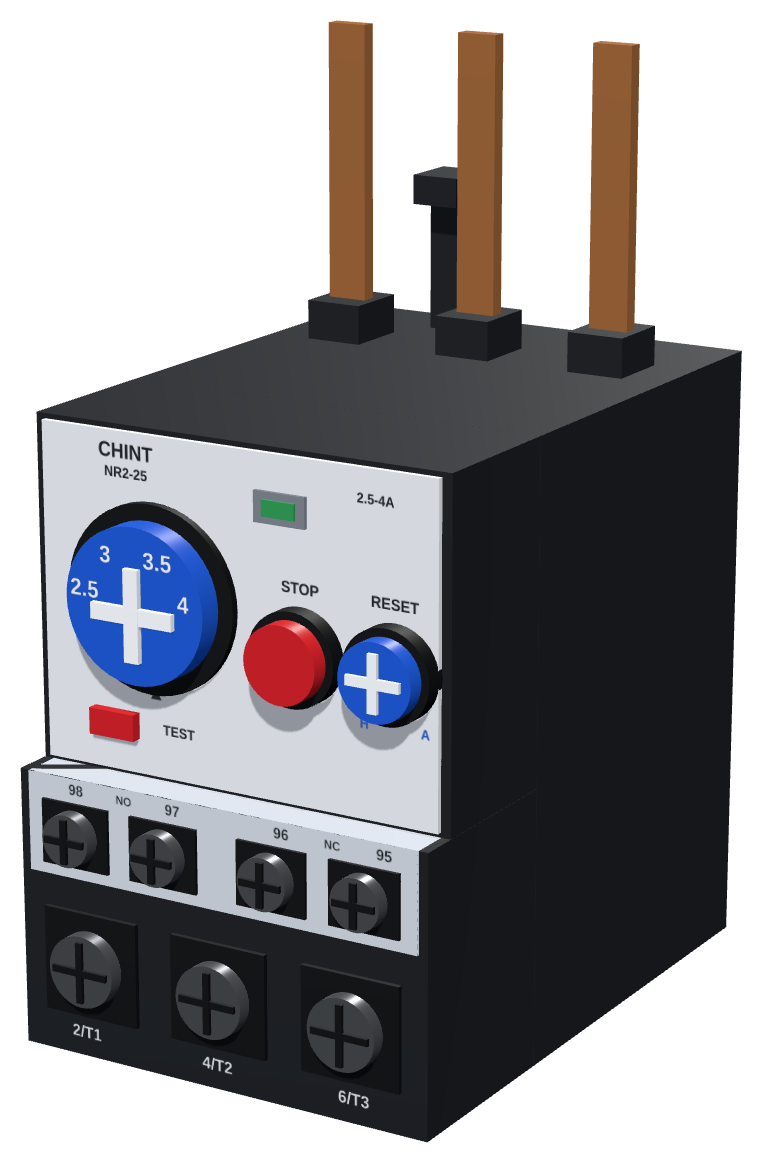
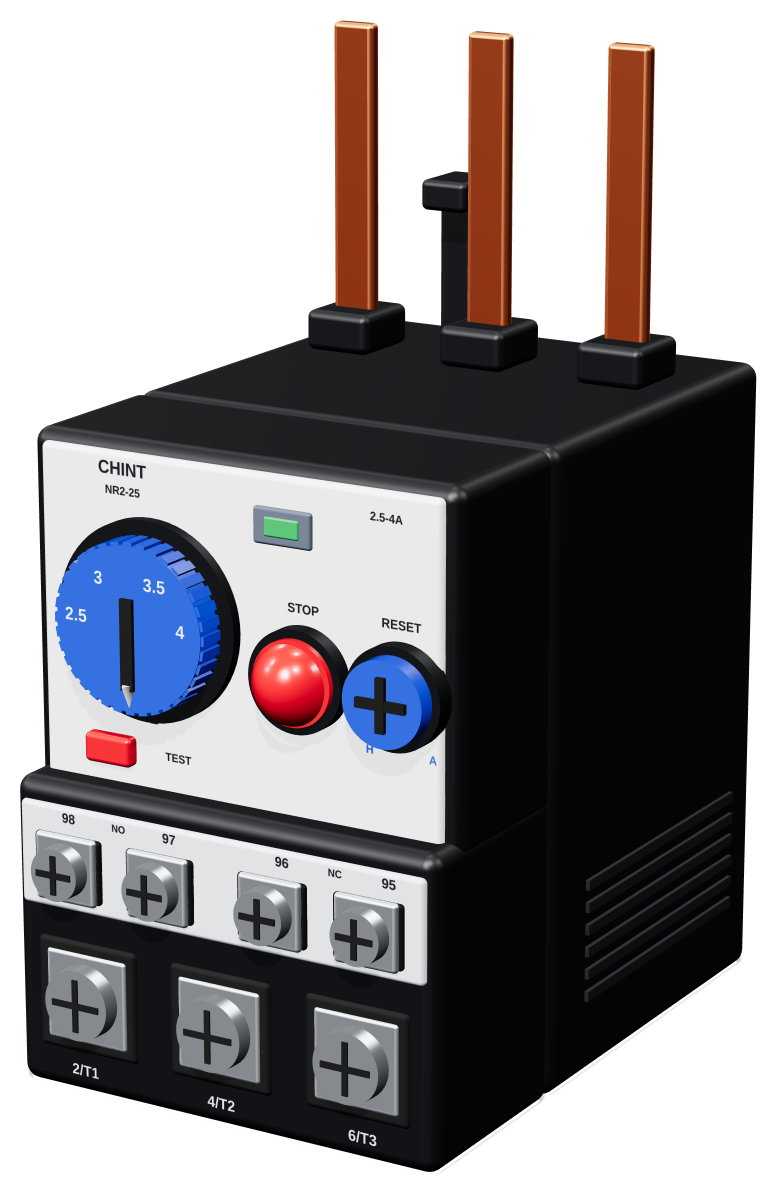
NR2-25 3D realista (PBR, entorno, bordes redondeados)
Claude-Session: https://claude.ai/code/session_01PXbN6AjaUdwQ9uVhc3uYbs

diff --git a/manim/posts3d/modelo.html b/manim/posts3d/modelo.html
@@ -1,89 +1,101 @@
 <!doctype html>
 <html><head><meta charset="utf-8">
 <style>html,body{margin:0;background:transparent}canvas{display:block}</style>
-<script type="importmap">{"imports":{"three":"./node_modules/three/build/three.module.js"}}</script>
+<script type="importmap">{"imports":{"three":"./node_modules/three/build/three.module.js","three/addons/":"./node_modules/three/examples/jsm/"}}</script>
 </head><body>
 <script type="module">
 import * as THREE from 'three';
-// Modelo aproximado del relé térmico CHINT NR2-25 (2,5–4 A). Unidades: mm. x derecha, y arriba, z hacia el frente.
+import {RoundedBoxGeometry} from 'three/addons/geometries/RoundedBoxGeometry.js';
+import {RoomEnvironment} from 'three/addons/environments/RoomEnvironment.js';
+// Relé térmico CHINT NR2-25 (2,5–4 A), versión realista: PBR + entorno + bordes redondeados. Unidades mm.
 const P = new URLSearchParams(location.search);
 const VIEW = P.get('v') || 'iso', W = +(P.get('w') || 1400), H = +(P.get('h') || 1400);
 const r = new THREE.WebGLRenderer({antialias: true, alpha: true, preserveDrawingBuffer: true});
-r.setPixelRatio(1); r.setSize(W, H); r.outputColorSpace = THREE.SRGBColorSpace;
+r.setPixelRatio(2); r.setSize(W, H); r.outputColorSpace = THREE.SRGBColorSpace;
+r.toneMapping = THREE.ACESFilmicToneMapping; r.toneMappingExposure = 1.05;
 r.shadowMap.enabled = true; r.shadowMap.type = THREE.PCFSoftShadowMap;
 document.body.appendChild(r.domElement);
 const sc = new THREE.Scene();
-const cam = new THREE.PerspectiveCamera(22, W / H, 1, 2000);
-const V = {iso: [175, 140, 280], izq: [-270, 150, -110], frente: [0, 46, 330]}[VIEW];
-cam.position.set(...V); cam.lookAt(0, 46, -10);
-sc.add(new THREE.HemisphereLight(0xffffff, 0x8899aa, 1.3));
-const sun = new THREE.DirectionalLight(0xffffff, 2.2); sun.position.set(80, 160, 140); sun.castShadow = true;
-sun.shadow.mapSize.set(4096, 4096); sun.shadow.bias = -0.0004; sun.shadow.normalBias = 0.4; Object.assign(sun.shadow.camera, {left: -120, right: 120, top: 120, bottom: -120}); sc.add(sun);
-const fill = new THREE.DirectionalLight(0xdde8ff, 0.9); fill.position.set(-120, 60, 40); sc.add(fill);
-const rim = new THREE.DirectionalLight(0xffffff, 0.7); rim.position.set(-40, 80, -160); sc.add(rim);
+const pm = new THREE.PMREMGenerator(r); sc.environment = pm.fromScene(new RoomEnvironment(), .04).texture;
+const cam = new THREE.PerspectiveCamera(20, W / H, 1, 3000);
+cam.position.set(...{iso: [185, 145, 300], izq: [-290, 150, -120], frente: [0, 46, 360]}[VIEW]); cam.lookAt(0, 46, -10);
+const key = new THREE.DirectionalLight(0xffffff, 2.0); key.position.set(90, 190, 160); key.castShadow = true;
+key.shadow.mapSize.set(4096, 4096); key.shadow.bias = -0.0003; key.shadow.normalBias = .3; key.shadow.radius = 6;
+Object.assign(key.shadow.camera, {left: -110, right: 110, top: 130, bottom: -60}); sc.add(key);
+const fill = new THREE.DirectionalLight(0xe8efff, .6); fill.position.set(-150, 70, 80); sc.add(fill);
+sc.add(new THREE.AmbientLight(0xffffff, .15));
 
-const M = (c, o = {}) => new THREE.MeshStandardMaterial(Object.assign({color: c, roughness: .55, metalness: 0}, o));
-const negro = M(0x1d1f23, {roughness: .5}), blanco = M(0xf1f2f4, {roughness: .45}), gris = M(0xd6dbe2, {roughness: .5});
-const cobre = M(0xe39253, {metalness: .55, roughness: .32}), metal = M(0xc8ccd2, {metalness: .9, roughness: .25});
-const azul = M(0x1f5bd6, {roughness: .35}), rojo = M(0xd8232a, {roughness: .35}), oscuro = M(0x0d0e10);
-function box(w, h, d, m, x, y, z) {const g = new THREE.Mesh(new THREE.BoxGeometry(w, h, d), m); g.position.set(x, y, z); g.castShadow = g.receiveShadow = true; sc.add(g); return g}
-function cyl(r1, h, m, x, y, z, rx = Math.PI / 2, seg = 48) {const g = new THREE.Mesh(new THREE.CylinderGeometry(r1, r1, h, seg), m); g.rotation.x = rx; g.position.set(x, y, z); g.castShadow = g.receiveShadow = true; sc.add(g); return g}
-function texto(lines, w, h, x, y, z, ry = 0, color = '#1b1f24', size = 64, bg = null) {
-  const c = document.createElement('canvas'); c.width = w * 20; c.height = h * 20; const k = c.getContext('2d');
+const phys = (c, o = {}) => new THREE.MeshPhysicalMaterial(Object.assign({color: c, roughness: .5, metalness: 0}, o));
+const negro = phys(0x17181b, {roughness: .42, clearcoat: .25, clearcoatRoughness: .5});
+const negroMate = phys(0x1b1c20, {roughness: .7});
+const blanco = phys(0xeef0f2, {roughness: .38, clearcoat: .2});
+const gris = phys(0xcfd4da, {roughness: .45});
+const cobre = phys(0xeaa06c, {metalness: 1, roughness: .33, envMapIntensity: 1.6});
+const niquel = phys(0xe3e6ea, {metalness: 1, roughness: .3, envMapIntensity: 1.8});
+const azul = phys(0x1f56d1, {roughness: .3, clearcoat: .5});
+const rojo = phys(0xd3202a, {roughness: .28, clearcoat: .6});
+const hueco = phys(0x050506, {roughness: .9});
+function add(geo, m, x, y, z, rx = 0, ry = 0, rz = 0) {const g = new THREE.Mesh(geo, m); g.position.set(x, y, z); g.rotation.set(rx, ry, rz); g.castShadow = g.receiveShadow = true; sc.add(g); return g}
+const rbox = (w, h, d, m, x, y, z, rad = 1.2) => add(new RoundedBoxGeometry(w, h, d, 4, rad), m, x, y, z);
+const cyl = (ra, h, m, x, y, z, seg = 64, rb = ra) => add(new THREE.CylinderGeometry(ra, rb, h, seg), m, x, y, z, Math.PI / 2);
+function texto(lines, w, h, x, y, z, ry = 0, color = '#1b1f24', bg = null) {
+  const s = 40, c = document.createElement('canvas'); c.width = w * s; c.height = h * s; const k = c.getContext('2d');
   if (bg) {k.fillStyle = bg; k.fillRect(0, 0, c.width, c.height)}
   k.fillStyle = color; k.textAlign = 'center'; k.textBaseline = 'middle';
-  lines.forEach(([t, px, py, s, wgt]) => {k.font = `${wgt || 700} ${s || size}px Arial`; k.fillText(t, px * 20, py * 20)});
-  const t = new THREE.CanvasTexture(c); t.colorSpace = THREE.SRGBColorSpace; t.anisotropy = 8;
-  const m = new THREE.Mesh(new THREE.PlaneGeometry(w, h), new THREE.MeshStandardMaterial({map: t, transparent: !bg, roughness: .6}));
-  m.position.set(x, y, z); m.rotation.y = ry; sc.add(m); return m;
+  lines.forEach(([t, px, py, sz, wgt, col]) => {k.fillStyle = col || color; k.font = `${wgt || 700} ${sz * s / 20}px Arial`; k.fillText(t, px * s, py * s)});
+  const t = new THREE.CanvasTexture(c); t.colorSpace = THREE.SRGBColorSpace; t.anisotropy = 16;
+  const m = new THREE.Mesh(new THREE.PlaneGeometry(w, h), new THREE.MeshPhysicalMaterial({map: t, transparent: !bg, roughness: .5, polygonOffset: true, polygonOffsetFactor: -2}));
+  m.position.set(x, y, z); m.rotation.y = ry; m.receiveShadow = true; sc.add(m); return m;
 }
-function tornillo(x, y, z, r0 = 3.2) {
-  cyl(r0, 1.6, metal, x, y, z + .8);
-  box(r0 * 1.7, .7, .6, oscuro, x, y, z + 1.65); box(.7, r0 * 1.7, .6, oscuro, x, y, z + 1.65);
+function tornillo(x, y, z, rr = 3.4) {          // tornillo de cabeza combinada (Pozidriv) con arandela-placa de apriete
+  rbox(rr * 2.6, rr * 2.6, .8, niquel, x, y, z + .4, .4);
+  const cab = add(new THREE.CylinderGeometry(rr, rr * 1.02, 1.8, 48), niquel, x, y, z + 1.6, Math.PI / 2);
+  add(new THREE.BoxGeometry(rr * 1.5, .6, .4), hueco, x, y, z + 2.45); add(new THREE.BoxGeometry(.6, rr * 1.5, .4), hueco, x, y, z + 2.45);
 }
-// cuerpo
-box(45, 62, 42, negro, 0, 31, -21);          // bloque trasero (va bajo el contactor)
-box(45, 28, 20, negro, 0, 14, 10);           // bloque frontal inferior (bornes)
-box(45, 34, 16, negro, 0, 45, 8);            // bloque frontal superior
-box(43, 33, .6, blanco, 0, 45, 16.3);        // placa frontal blanca
-// bornes de salida 2/T1 4/T2 6/T3
-for (const x of [-14.5, 0, 14.5]) {box(10.5, 10.5, .6, oscuro, x, 9.5, 20.2); tornillo(x, 9.5, 20.5, 3.6)}
-texto([['2/T1', 7.5, 1.6, 34], ['4/T2', 22.5, 1.6, 34], ['6/T3', 37.5, 1.6, 34]], 45, 3.2, 0, 2.6, 20.6, 0, '#e8eaee');
-// regleta de auxiliares 98 97 | 96 95
-box(43, 10, 4, gris, 0, 23, 18);
-const xa = [-16, -6, 6, 16];
-for (const x of xa) {box(7.5, 6.4, .6, oscuro, x, 22.4, 20.2); tornillo(x, 22.4, 20.5, 2.6)}
-texto([['98', 5.5, 1.2, 30], ['NO', 11, 1.2, 24], ['97', 16.5, 1.2, 30], ['96', 28.5, 1.2, 30], ['NC', 34, 1.2, 24], ['95', 39.5, 1.2, 30]], 43, 10, 0, 23, 20.15, 0, '#1b1f24', 40, '#d6dbe2');
-// dial azul con escala impresa (gira con el dial)
-cyl(9.2, 1.2, oscuro, -9, 46, 16.8);
-const dial = cyl(7.6, 3.2, azul, -9, 46, 18.4);
-texto([['2.5', 2.6, 6.2, 46], ['3', 5, 2.6, 46], ['3.5', 10.8, 2.6, 46], ['4', 13.6, 6.2, 46]], 16.2, 9, -9, 48.6, 20.06, 0, '#ffffff');
-box(1.6, 9, .8, M(0xffffff), -9, 45.2, 20.2); box(9, 1.6, .8, M(0xffffff), -9, 45.2, 20.2);
-texto([['▲', 1, 1, 40]], 2, 2, -9, 36.7, 16.65, 0, '#1b1f24');
-// TEST
-box(5, 2.6, 1.2, rojo, -13.5, 33.2, 17.1); texto([['TEST', 3, 1, 28]], 6, 2, -6.5, 33.2, 16.65);
-// indicador de disparo
-box(5.5, 3, .6, M(0x8a8f98, {roughness: .2, metalness: .1}), 5, 56.5, 16.7); box(3.5, 1.6, .7, M(0x2f9d55), 5, 56.5, 16.9);
-// STOP rojo y RESET azul (H/A)
-cyl(4.6, 2.4, oscuro, 7, 43, 17.2); cyl(3.8, 3.4, rojo, 7, 43, 18.6);
-cyl(4.6, 2.4, oscuro, 17, 43, 17.2); cyl(3.8, 3.4, azul, 17, 43, 18.6);
-box(5.6, 1, .6, M(0xffffff), 17, 43, 20.4); box(1, 5.6, .6, M(0xffffff), 17, 43, 20.4);
-texto([['STOP', 3, 1, 30], ['RESET', 13, 1, 30]], 16, 2, 12, 49.2, 16.65);
-texto([['H', .8, 1, 26], ['A', 7.2, 1, 26]], 8, 2, 17, 37.6, 16.65, 0, '#1f5bd6');
-texto([['CHINT', 6, 1.4, 40, 900], ['NR2-25', 6, 3.4, 28]], 12, 4.6, -12, 58.6, 16.65, 0, '#1b1f24');
-texto([['2.5-4A', 2.5, 1, 26]], 5, 2, 15, 58.6, 16.65, 0, '#1b1f24');
-// pines de cobre (entrada) y gancho de fijación
-for (const x of [-15, 0, 15]) {box(6, 4, 7, negro, x, 64, -28); box(4.2, 30, 1.6, cobre, x, 79, -28)}
-box(5, 16, 3, negro, -7.5, 70, -37); box(5, 3, 6, negro, -7.5, 77, -35);
-// placa de características en el costado izquierdo
-const pl = texto([['NR2-25  2.5-4A', 14, 2.5, 42], ['Ue 690V  Ui 690V', 14, 5.5, 32], ['IEC/EN 60947-4-1', 14, 8.2, 32], ['Class 10A', 14, 10.9, 32], ['95 ─┐ 96   97 ─┐ 98', 14, 14.2, 30]], 28, 17, -22.55, 34, -14, -Math.PI / 2, '#1b1f24', 40, '#e9ecf0');
-// piso con sombra suave
-const piso = new THREE.Mesh(new THREE.PlaneGeometry(600, 600), new THREE.ShadowMaterial({opacity: .12}));
+// ---------- cuerpo
+rbox(45, 62, 42, negro, 0, 31, -21, 1.5);            // bloque trasero (bajo el contactor)
+rbox(45, 30, 21, negro, 0, 15, 10, 1.5);             // bloque frontal inferior (bornes)
+rbox(45, 34, 17, negro, 0, 45, 8, 1.5);              // bloque frontal superior
+for (let i = 0; i < 6; i++) add(new THREE.BoxGeometry(.6, 1, 30), negroMate, 22.6, 8 + i * 2.2, -22);   // estrías del costado derecho
+rbox(42, 32, 1.2, blanco, 0, 45, 16.6, .6);          // placa frontal
+// ---------- bornes de salida 2/T1 4/T2 6/T3 (ventana + tornillo)
+for (const x of [-14.5, 0, 14.5]) {rbox(11, 11, 1.2, hueco, x, 9.6, 20.2, .8); tornillo(x, 9.6, 20.2)}
+texto([['2/T1', 7.5, 1.4, 30, 700, '#d9dde3'], ['4/T2', 22.5, 1.4, 30, 700, '#d9dde3'], ['6/T3', 37.5, 1.4, 30, 700, '#d9dde3']], 45, 2.8, 0, 2.3, 20.62);
+// ---------- regleta de auxiliares 98 NO 97 | 96 NC 95
+rbox(43, 10, 1.4, gris, 0, 23, 20.3, .5);
+texto([['98', 5.5, 1.1, 26], ['NO', 11, 1.1, 20], ['97', 16.5, 1.1, 26], ['96', 28.5, 1.1, 26], ['NC', 34, 1.1, 20], ['95', 39.5, 1.1, 26]], 43, 2.2, 0, 26.9, 21.05);
+for (const x of [-16, -6, 6, 16]) {rbox(7.2, 6.2, .8, hueco, x, 22.3, 21.1, .6); tornillo(x, 22.3, 21.1, 2.5)}
+// ---------- dial azul moleteado con escala impresa
+cyl(9.4, 1.4, negro, -9, 46, 17.6, 64);
+const dial = cyl(7.7, 3.4, azul, -9, 46, 19.4, 96);
+for (let i = 0; i < 36; i++) {const a = i / 36 * Math.PI * 2; add(new THREE.BoxGeometry(.5, .9, 3.2), azul, -9 + 7.75 * Math.cos(a), 46 + 7.75 * Math.sin(a), 19.4, 0, 0, a)}
+texto([['2.5', 2.4, 6.4, 34, 800, '#fff'], ['3', 4.9, 2.6, 34, 800, '#fff'], ['3.5', 10.9, 2.6, 34, 800, '#fff'], ['4', 13.6, 6.4, 34, 800, '#fff']], 16, 9, -9, 48.4, 21.15);
+add(new THREE.BoxGeometry(1.3, 8.5, 1), hueco, -9, 44.6, 21);       // ranura para destornillador
+add(new THREE.ConeGeometry(1.1, 2.2, 3), phys(0xffffff), -9, 39.8, 21.15, 0, 0, Math.PI);
+texto([['▲', 1, 1, 30]], 2, 2, -9, 36.6, 17.25);
+// ---------- TEST, indicador, STOP, RESET
+rbox(5, 2.8, 1.6, rojo, -13.5, 33.2, 17.6, .5); texto([['TEST', 3, 1, 22]], 6, 2, -6.4, 33.2, 17.25);
+rbox(6, 3.4, .6, phys(0x5c6470, {roughness: .1, transmission: 0}), 5, 56.4, 17.3, .3); rbox(3.6, 1.8, .4, phys(0x2c9b52, {roughness: .3}), 5, 56.4, 17.55, .2);
+cyl(4.8, 2, negro, 7, 43, 17.8, 64);
+add(new THREE.SphereGeometry(4, 64, 32, 0, Math.PI * 2, 0, Math.PI / 2.6), rojo, 7, 43, 18.4, Math.PI / 2); cyl(4, 1.6, rojo, 7, 43, 18.6, 64);
+cyl(4.8, 2, negro, 17, 43, 17.8, 64); cyl(4, 2.8, azul, 17, 43, 19.2, 64);
+add(new THREE.BoxGeometry(5, .9, .8), hueco, 17, 43, 20.65); add(new THREE.BoxGeometry(.9, 5, .8), hueco, 17, 43, 20.65);
+texto([['STOP', 3, 1, 24, 800], ['RESET', 13, 1, 24, 800]], 16, 2, 12, 49.2, 17.25);
+texto([['H', .8, 1, 22, 800, '#1f56d1'], ['A', 7.2, 1, 22, 800, '#1f56d1']], 8, 2, 17, 37.5, 17.25);
+texto([['CHINT', 6, 1.3, 34, 900], ['NR2-25', 6, 3.3, 22, 700]], 12, 4.6, -12, 58.4, 17.25);
+texto([['2.5-4A', 3, 1, 22, 800]], 6, 2, 15.5, 58.6, 17.25);
+// ---------- pines de cobre (entrada) y gancho
+for (const x of [-15, 0, 15]) {rbox(7, 4, 8, negro, x, 64, -28, .8); rbox(4.4, 30, 1.6, cobre, x, 79, -28, .5)}
+rbox(5, 16, 3, negro, -7.5, 70, -37, .6); rbox(5, 3, 6.5, negro, -7.5, 77, -35, .6);
+// ---------- placa de datos en el costado izquierdo (solo datos de la ficha)
+texto([['CHINT  NR2-25', 13, 2.3, 34, 900], ['2.5-4A   Class 10A', 13, 5.5, 26], ['Ue 690V~', 13, 8.3, 26], ['IEC/EN 60947-4-1', 13, 11.1, 26]], 26, 13.5, -22.62, 36, -14, -Math.PI / 2, '#1b1f24', '#e6e9ee');
+// ---------- piso de sombra
+const piso = new THREE.Mesh(new THREE.PlaneGeometry(800, 800), new THREE.ShadowMaterial({opacity: .18}));
 piso.rotation.x = -Math.PI / 2; piso.receiveShadow = true; sc.add(piso);
 r.render(sc, cam);
 const pts = {
-  pines: [0, 88, -28], gancho: [-7.5, 78, -35], dial: [-9, 46, 20], test: [-13.5, 33.2, 17.7], stop: [7, 43, 20.3], reset: [17, 43, 20.3],
-  indicador: [5, 56.5, 17.2], aux: [0, 23, 21], salida: [14.5, 9.5, 19.5], placa: [-22.6, 34, -14], cuerpo: [22.5, 30, -20]
+  pines: [0, 88, -28], gancho: [-7.5, 78, -35], dial: [-9, 46, 21], test: [-13.5, 33.2, 18.4], stop: [7, 43, 22.3], reset: [17, 43, 21],
+  indicador: [5, 56.4, 17.8], aux: [0, 23, 21.5], salida: [14.5, 9.6, 22.8], placa: [-22.7, 36, -14], cuerpo: [22.5, 30, -20]
 };
 window.pts = {};
 for (const [k, v] of Object.entries(pts)) {const p = new THREE.Vector3(...v).project(cam); window.pts[k] = [(p.x + 1) / 2, (1 - p.y) / 2]}

diff --git a/manim/posts3d/html/NR2_25_partes_3d.html b/manim/posts3d/html/NR2_25_partes_3d.html
@@ -45,4 +45,4 @@ svg.ov{position:absolute;left:0;top:0;z-index:1}
 .r3{position:absolute;filter:drop-shadow(0 18px 26px rgba(11,31,77,.25))}
 .ins{position:absolute;border:3px solid #CFE0F5;border-radius:22px;background:#F6FAFF}
 .spec{position:absolute;left:700px;right:40px;top:1100px;display:grid;grid-template-columns:1fr 1fr;gap:10px}
-.spec div{background:#0B1F4D;color:#fff;border-radius:14px;padding:10px 14px;font:500 16px Montserrat}.spec b{display:block;font:900 26px 'Barlow C';color:#FFD400}</style></head><body><div class='h1b'><div style='font-size:58px;color:#0057FF'>Partes del</div><div style='font-size:132px'>Relé térmico</div></div><div class='mdl'>CHINT <em>NR2-25</em> · 2,5–4 A · modelo 3D</div><img class='r3' src='../c3d_iso.png' style='left:497px;top:250px;width:563px;height:860px'><div class='ins' style='left:50px;top:996px;width:215px;height:278px'></div><img src='../c3d_izq.png' style='position:absolute;left:70px;top:1010px;width:175px;height:250px'><svg class='ov' width='1080' height='1350' viewBox='0 0 1080 1350'><polyline points='96,300 440,300 852,319' fill='none' stroke='#0057FF' stroke-width='3' stroke-dasharray='9 7'/><circle cx='852' cy='319' r='8' fill='#0057FF' stroke='#fff' stroke-width='3'/><polyline points='96,380 440,380 829,381' fill='none' stroke='#0057FF' stroke-width='3' stroke-dasharray='9 7'/><circle cx='829' cy='381' r='8' fill='#0057FF' stroke='#fff' stroke-width='3'/><polyline points='96,460 440,460 702,627' fill='none' stroke='#0057FF' stroke-width='3' stroke-dasharray='9 7'/><circle cx='702' cy='627' r='8' fill='#0057FF' stroke='#fff' stroke-width='3'/><polyline points='96,540 440,540 595,699' fill='none' stroke='#0057FF' stroke-width='3' stroke-dasharray='9 7'/><circle cx='595' cy='699' r='8' fill='#0057FF' stroke='#fff' stroke-width='3'/><polyline points='96,620 440,620 703,743' fill='none' stroke='#0057FF' stroke-width='3' stroke-dasharray='9 7'/><circle cx='703' cy='743' r='8' fill='#0057FF' stroke='#fff' stroke-width='3'/><polyline points='96,700 440,700 773,755' fill='none' stroke='#0057FF' stroke-width='3' stroke-dasharray='9 7'/><circle cx='773' cy='755' r='8' fill='#0057FF' stroke='#fff' stroke-width='3'/><polyline points='96,780 440,780 579,786' fill='none' stroke='#0057FF' stroke-width='3' stroke-dasharray='9 7'/><circle cx='579' cy='786' r='8' fill='#0057FF' stroke='#fff' stroke-width='3'/><polyline points='96,860 440,860 654,888' fill='none' stroke='#0057FF' stroke-width='3' stroke-dasharray='9 7'/><circle cx='654' cy='888' r='8' fill='#0057FF' stroke='#fff' stroke-width='3'/><polyline points='96,940 440,940 759,1009' fill='none' stroke='#0057FF' stroke-width='3' stroke-dasharray='9 7'/><circle cx='759' cy='1009' r='8' fill='#0057FF' stroke='#fff' stroke-width='3'/><polyline points='169,1172 275,1172' fill='none' stroke='#0057FF' stroke-width='3' stroke-dasharray='9 7'/><circle cx='169' cy='1172' r='8' fill='#0057FF' stroke='#fff' stroke-width='3'/></svg><div class='li' style='top:275px'><div class='n'>1</div><div class='bx'><b>Pines de entrada</b><span>a 2/T1·4/T2·6/T3 del contactor</span></div></div><div class='li' style='top:355px'><div class='n'>2</div><div class='bx'><b>Gancho de sujeción</b><span>lo fija al contactor</span></div></div><div class='li' style='top:435px'><div class='n'>3</div><div class='bx'><b>Indicador de disparo</b><span>muestra si disparó</span></div></div><div class='li' style='top:515px'><div class='n'>4</div><div class='bx'><b>Dial de ajuste</b><span>2,5 a 4 A · corriente del motor</span></div></div><div class='li' style='top:595px'><div class='n'>5</div><div class='bx'><b>Botón STOP</b><span>abre solo 95-96</span></div></div><div class='li' style='top:675px'><div class='n'>6</div><div class='bx'><b>RESET H / A</b><span>manual o automático</span></div></div><div class='li' style='top:755px'><div class='n'>7</div><div class='bx'><b>Botón TEST</b><span>simula el disparo</span></div></div><div class='li' style='top:835px'><div class='n'>8</div><div class='bx'><b>Auxiliares</b><span>97-98 NA · 95-96 NC</span></div></div><div class='li' style='top:915px'><div class='n'>9</div><div class='bx'><b>Bornes de salida</b><span>2/T1·4/T2·6/T3 al motor</span></div></div><div class='li' style='left:275px;width:330px;top:1147px'><div class='n'>10</div><div class='bx'><b>Placa de datos</b><span>en el costado: Ue, clase, norma</span></div></div><div class='spec'><div><b>Clase 10A</b>disparo</div><div><b>690 V</b>tensión Ue</div><div><b>1 NA + 1 NC</b>auxiliares</div><div><b>Falta de fase</b>protección incluida</div></div><div class='pie2'><div class='f' style='color:#667085'><b>Fuentes:</b> CHINT, ficha NR2 · LARSSYSTEM Guatemala, NR2-25 2,5-4 A · IEC/EN 60947-4-1 · <b>Foto:</b> modelo 3D propio (three.js) basado en el producto</div><div class='m' style='color:#0B1F4D'><img src='../../logo_oficial.png'>@miguelesquit</div></div></body></html>
+.spec div{background:#0B1F4D;color:#fff;border-radius:14px;padding:10px 14px;font:500 16px Montserrat}.spec b{display:block;font:900 26px 'Barlow C';color:#FFD400}</style></head><body><div class='h1b'><div style='font-size:58px;color:#0057FF'>Partes del</div><div style='font-size:132px'>Relé térmico</div></div><div class='mdl'>CHINT <em>NR2-25</em> · 2,5–4 A · modelo 3D</div><img class='r3' src='../c3d_iso.png' style='left:499px;top:250px;width:561px;height:860px'><div class='ins' style='left:50px;top:996px;width:263px;height:278px'></div><img src='../c3d_izq.png' style='position:absolute;left:70px;top:1010px;width:223px;height:250px'><svg class='ov' width='1080' height='1350' viewBox='0 0 1080 1350'><polyline points='96,300 440,300 854,319' fill='none' stroke='#0057FF' stroke-width='3' stroke-dasharray='9 7'/><circle cx='854' cy='319' r='8' fill='#0057FF' stroke='#fff' stroke-width='3'/><polyline points='96,380 440,380 830,381' fill='none' stroke='#0057FF' stroke-width='3' stroke-dasharray='9 7'/><circle cx='830' cy='381' r='8' fill='#0057FF' stroke='#fff' stroke-width='3'/><polyline points='96,460 440,460 701,632' fill='none' stroke='#0057FF' stroke-width='3' stroke-dasharray='9 7'/><circle cx='701' cy='632' r='8' fill='#0057FF' stroke='#fff' stroke-width='3'/><polyline points='96,540 440,540 592,704' fill='none' stroke='#0057FF' stroke-width='3' stroke-dasharray='9 7'/><circle cx='592' cy='704' r='8' fill='#0057FF' stroke='#fff' stroke-width='3'/><polyline points='96,620 440,620 696,750' fill='none' stroke='#0057FF' stroke-width='3' stroke-dasharray='9 7'/><circle cx='696' cy='750' r='8' fill='#0057FF' stroke='#fff' stroke-width='3'/><polyline points='96,700 440,700 773,760' fill='none' stroke='#0057FF' stroke-width='3' stroke-dasharray='9 7'/><circle cx='773' cy='760' r='8' fill='#0057FF' stroke='#fff' stroke-width='3'/><polyline points='96,780 440,780 576,792' fill='none' stroke='#0057FF' stroke-width='3' stroke-dasharray='9 7'/><circle cx='576' cy='792' r='8' fill='#0057FF' stroke='#fff' stroke-width='3'/><polyline points='96,860 440,860 653,894' fill='none' stroke='#0057FF' stroke-width='3' stroke-dasharray='9 7'/><circle cx='653' cy='894' r='8' fill='#0057FF' stroke='#fff' stroke-width='3'/><polyline points='96,940 440,940 748,1022' fill='none' stroke='#0057FF' stroke-width='3' stroke-dasharray='9 7'/><circle cx='748' cy='1022' r='8' fill='#0057FF' stroke='#fff' stroke-width='3'/><polyline points='213,1168 323,1168' fill='none' stroke='#0057FF' stroke-width='3' stroke-dasharray='9 7'/><circle cx='213' cy='1168' r='8' fill='#0057FF' stroke='#fff' stroke-width='3'/></svg><div class='li' style='top:275px'><div class='n'>1</div><div class='bx'><b>Pines de entrada</b><span>a 2/T1·4/T2·6/T3 del contactor</span></div></div><div class='li' style='top:355px'><div class='n'>2</div><div class='bx'><b>Gancho de sujeción</b><span>lo fija al contactor</span></div></div><div class='li' style='top:435px'><div class='n'>3</div><div class='bx'><b>Indicador de disparo</b><span>muestra si disparó</span></div></div><div class='li' style='top:515px'><div class='n'>4</div><div class='bx'><b>Dial de ajuste</b><span>2,5 a 4 A · corriente del motor</span></div></div><div class='li' style='top:595px'><div class='n'>5</div><div class='bx'><b>Botón STOP</b><span>abre solo 95-96</span></div></div><div class='li' style='top:675px'><div class='n'>6</div><div class='bx'><b>RESET H / A</b><span>manual o automático</span></div></div><div class='li' style='top:755px'><div class='n'>7</div><div class='bx'><b>Botón TEST</b><span>simula el disparo</span></div></div><div class='li' style='top:835px'><div class='n'>8</div><div class='bx'><b>Auxiliares</b><span>97-98 NA · 95-96 NC</span></div></div><div class='li' style='top:915px'><div class='n'>9</div><div class='bx'><b>Bornes de salida</b><span>2/T1·4/T2·6/T3 al motor</span></div></div><div class='li' style='left:323px;width:330px;top:1143px'><div class='n'>10</div><div class='bx'><b>Placa de datos</b><span>en el costado: Ue, clase, norma</span></div></div><div class='spec'><div><b>Clase 10A</b>disparo</div><div><b>690 V</b>tensión Ue</div><div><b>1 NA + 1 NC</b>auxiliares</div><div><b>Falta de fase</b>protección incluida</div></div><div class='pie2'><div class='f' style='color:#667085'><b>Fuentes:</b> CHINT, ficha NR2 · LARSSYSTEM Guatemala, NR2-25 2,5-4 A · IEC/EN 60947-4-1 · <b>Foto:</b> modelo 3D propio (three.js, PBR) basado en el producto</div><div class='m' style='color:#0B1F4D'><img src='../../logo_oficial.png'>@miguelesquit</div></div></body></html>

diff --git a/manim/posts3d/gen.py b/manim/posts3d/gen.py
@@ -77,7 +77,7 @@ html = (f"<div class='h1b'><div style='font-size:58px;color:{AZ}'>Partes del</di
         f"<svg class='ov' width='1080' height='1350' viewBox='0 0 1080 1350'>{''.join(svg)}</svg>" + "".join(li) +
         "<div class='spec'>" + "".join(f"<div><b>{a}</b>{b}</div>" for a, b in spec) + "</div>")
 P = {"NR2_25_partes_3d": p6.page(CSS, html, "CHINT, ficha NR2 · LARSSYSTEM Guatemala, NR2-25 2,5-4 A · IEC/EN 60947-4-1",
-                                 "modelo 3D propio (three.js) basado en el producto")}
+                                 "modelo 3D propio (three.js, PBR) basado en el producto")}
 
 if __name__ == "__main__":
     (AQ / "html").mkdir(exist_ok=True)
